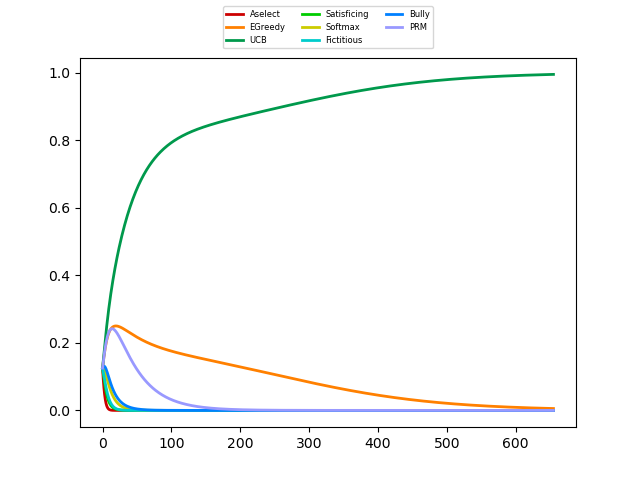
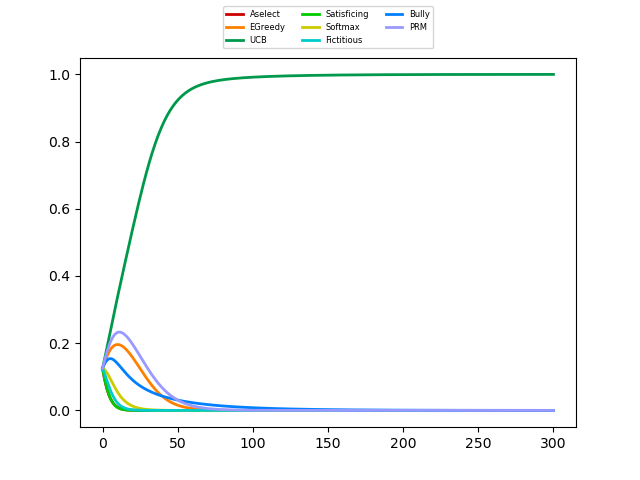
Minor changes

diff --git a/Strategies.py b/Strategies.py
@@ -106,7 +106,7 @@ class EGreedy(Strategy):
         self.name = "EGreedy"
 
     def initialize(self, matrix_suite: MatrixSuite, player: str) -> None:
-        """Just save the actions as that's the only thing we need."""
+        # TODO: description
         self.actions = matrix_suite.get_actions(player)
         self.epsilon = 0.1
         self.prob = 1 - self.epsilon
@@ -147,7 +147,7 @@ class EGreedy(Strategy):
 
 
 class UCB(Strategy):
-    """Implements the Aselect (random play) algorithm."""
+    #TODO: description
     actions: List[Action]
     action_history: List[Action]
     payoff_history: List[Payoff]
@@ -156,7 +156,7 @@ class UCB(Strategy):
         self.name = "UCB"
 
     def initialize(self, matrix_suite: MatrixSuite, player: str) -> None:
-        """Just save the actions as that's the only thing we need."""
+        # TODO: description
         self.actions = matrix_suite.get_actions(player)
         self.action_history = []
         self.payoff_history = []
@@ -346,7 +346,7 @@ class FictitiousPlay(Strategy):
         self.most_frequent_actions = []
 
     def get_action(self, round_: int) -> Action:
-        """Returns the best response at the opponent's most chosen action"""
+        """Returns the best response to the opponent's most chosen action"""
 
         if len(self.most_frequent_actions) == 0:
             action = random.choice(self.actions)

diff --git a/ReplicatorDynamic.py b/ReplicatorDynamic.py
@@ -22,11 +22,13 @@ class ReplicatorDynamic:
     history: List[List[float]]
     rounds: List[int]
     grand_table: GrandTable
+    stability_count: int
 
     def __init__(self, grand_table: GrandTable):
         self.history = [[] for i in grand_table.row_strategies]
         self.grand_table = grand_table
         self.rounds = []
+        self.stability_count = 0
 
     def to_graph(self, name: str): # TODO: fix overlapping
         """Visualize the evolution of proportions."""
@@ -54,13 +56,18 @@ class ReplicatorDynamic:
              True if the absolute difference between the sets is lower than the threshold
              False otherwise
         """
-        delta = 0.0001
+        delta = 0.00001
         diff = new_proportions - old_proportions
         diff = abs(diff)
 
         if sum(diff) <= delta:
-            return True
+            self.stability_count += 1
+            if self.stability_count == 50:
+                return True
+            else:
+                return False
         else:
+            self.stability_count = 0
             return False
 
     def update_history(self, proportions: List[float], round: int) -> None:

diff --git a/Main.py b/Main.py
@@ -73,16 +73,16 @@ game_session(5, RandomFloatMatrixSuite(), strategies, proportions, 19)
 game_session(6, RandomFloatMatrixSuite(), strategies_ext, proportions_ext, 19)
 
 
-'''
 
+'''
 ############# TEST AREA
 print("BEGIN  ########################################\n")
 
 
 matrix_suite = RandomIntMatrixSuite()  # Create a matrix suite
 
-row_strat = Strategies.EGreedy()  # Create the strategy you want to test.
-col_strat = Strategies.EGreedy()
+row_strat = Strategies.UCB()  # Create the strategy you want to test.
+col_strat = Strategies.UCB()
 row_strat.initialize(matrix_suite, "row")  # Initialise it with the game suite and as either "row" or "col" player.
 col_strat.initialize(matrix_suite, "col")
 
@@ -107,6 +107,5 @@ print()
 
 print("END  ########################################\n")
 ########################
-
 
 '''
